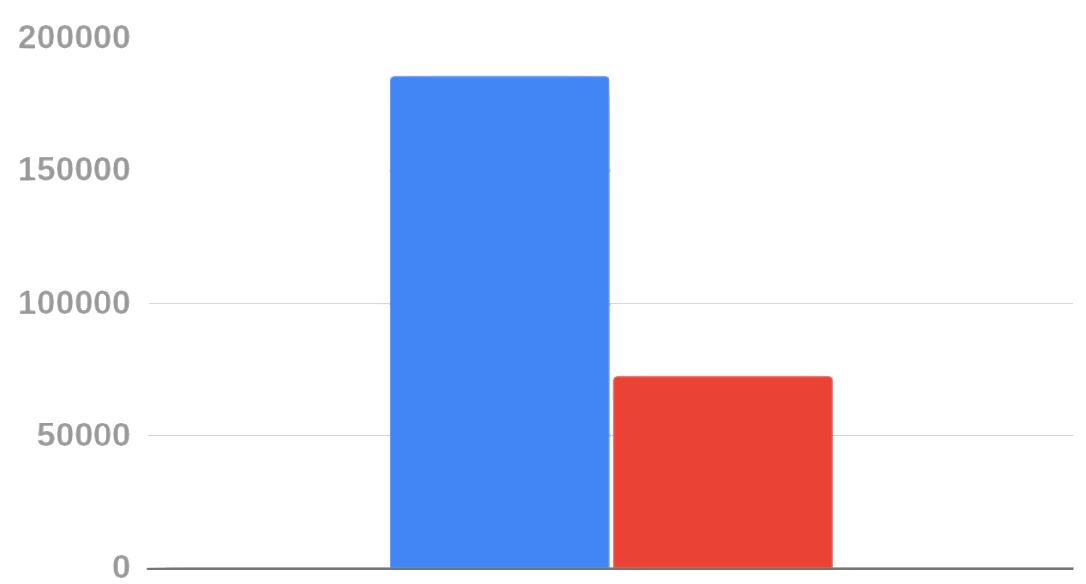
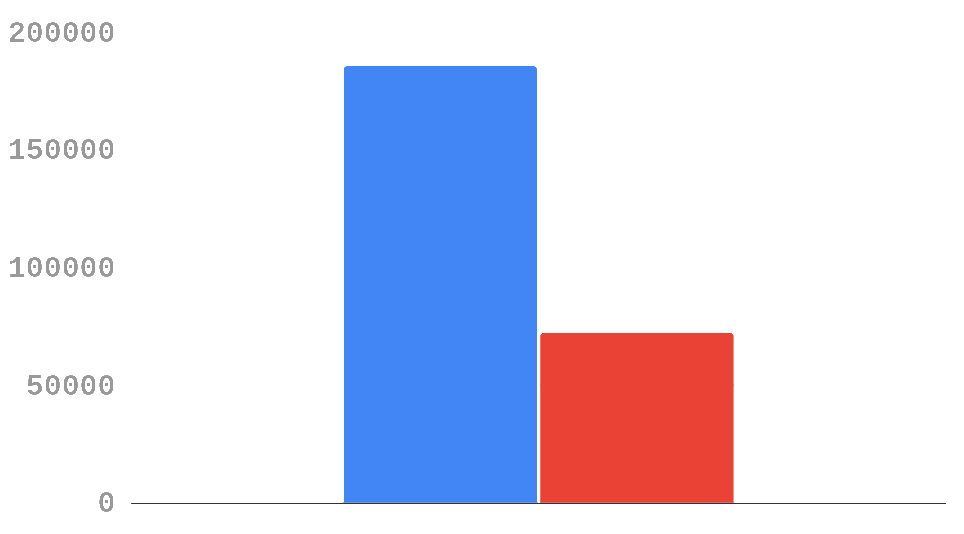
tidy up images, snug up CSS

diff --git a/content/en/releases/5_2_0.md b/content/en/releases/5_2_0.md
@@ -34,12 +34,12 @@ For many years  the community has been asking for ways to customize the UI of th
   {{< card  image="../images/5_2_0_UI_extensions.png" title="New \"Help\" tab on bottom of screen, main page shows custom UI Extension help content" >}}
   <a class="hextra-card hx:group hx:flex hx:flex-col hx:justify-start hx:overflow-hidden hx:rounded-lg hx:border hx:border-gray-200 hx:text-current hx:no-underline hx:dark:shadow-none hx:hover:shadow-gray-100 hx:dark:hover:shadow-none hx:shadow-gray-100 hx:active:shadow-sm hx:active:shadow-gray-200 hx:transition-all hx:duration-200 hx:hover:border-gray-300 hx:bg-gray-100 hx:shadow-sm hx:dark:border-neutral-700 hx:dark:bg-neutral-800 hx:dark:text-gray-50 hx:hover:shadow-lg hx:dark:hover:border-neutral-500 hx:dark:hover:bg-neutral-700">
   
-  <video poster="/releases/videos/CHT5.2.demo.ui.extensions.png" preload="auto" width="333" height="593" controls>
+  <video poster="/releases/videos/CHT5.2.demo.ui.extensions.png" preload="auto" width="100%" height="100%" controls>
       <source src="/releases/videos/CHT5.2.demo.ui.extensions.mp4" type="video/mp4">
   </video>
 
   <div class="hx:mt-auto">
-    <span class="hextra-card-icon hx:flex hx:font-semibold hx:items-start hx:gap-2 hx:p-4 hx:text-gray-700 hx:hover:text-gray-900 hx:dark:text-neutral-200 hx:dark:hover:text-neutral-50">Demo Video of UI Extension featuring a fictitious chicken farm</span>
+    <span class="hextra-card-icon hx:flex hx:font-semibold hx:items-start hx:gap-2 hx:p-4 hx:text-gray-700 hx:hover:text-gray-900 hx:dark:text-neutral-200 hx:dark:hover:text-neutral-50">Demo Video of UI Extension featuring a fictitious chicken farm. Originally from at CHT Round Up</span>
   </div>
   </a>
 </div>
@@ -62,7 +62,7 @@ In the past we've [discussed](https://forum.communityhealthtoolkit.org/t/cpu-imp
 
 ### Upgrade to CouchDB 3.5.2
 
-Partnering with powerful open source projects has many benefits.  Aside from being able to leverage a massive body of like CouchDB which is finely tuned to deftly handling two way synchronizing of JSON documents, it's also always being improved.  CHT 5.2 includes CouchDB 3.5.2 which is now up 50% faster at indexing (making upgrades go faster) and up to 17% faster at indexing large amounts of documents.
+Partnering with powerful open source projects has many benefits.  Aside from being able to leverage a massive body of like CouchDB which is finely tuned to deftly handling two way synchronizing of JSON documents, it's also always being improved.  CHT 5.2 includes CouchDB 3.5.2 which is now up 50% faster at indexing (making upgrades go faster) and up to 17% faster at indexing large amounts of documents. See [the ticket](https://github.com/medic/cht-core/issues/11080) for more details.
 
 ####  Millisecond to index (lower is better)
 
@@ -76,15 +76,8 @@ https://github.com/medic/cht-core/issues/11080#issuecomment-4658907122
 {{< cards cols="1">}}
 {{< card  image="../images/5_2_0_couch_chart2.png"   title="Up to 50% faster indexing" subtitle="Chart showing a re-index against CHT 5.1 (blue) and CHT 5.2 (red)" >}}
 {{< /cards >}}
-<style>
-.graph-key {
-    display: inline-block;
-}
-.content :where(.graph-key):not(:where([class~=not-prose],[class~=not-prose] *)) {
-  margin-top: 0;
-  margin-bottom: 0;
-}
-</style>
+
+
 
 ####  Millisecond to Synchronize (lower is better)
 
@@ -98,6 +91,7 @@ https://github.com/medic/cht-core/issues/11080#issuecomment-4658907122
 {{< cards cols="1">}}
 {{< card  image="../images/5_2_0_couch_chart1.png"   title="Up to 17% faster synchronizing" subtitle="Chart showing synchronizing three different sizes of documents against CHT 5.1 (blue) and CHT 5.2 (red)" >}}
 {{< /cards >}}
+
 <style>
 .graph-key {
     display: inline-block;
@@ -106,9 +100,10 @@ https://github.com/medic/cht-core/issues/11080#issuecomment-4658907122
   margin-top: 0;
   margin-bottom: 0;
 }
-</style>
-
-- [#11080](https://github.com/medic/cht-core/issues/11080): Upgrade to CouchDB 3.5.2
+a video {
+  padding-top: 0;
+}
+</style>W
 
 ## Known issues
 